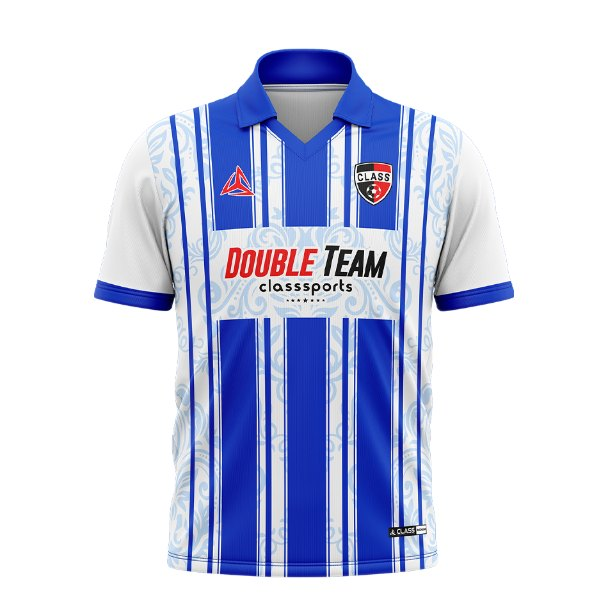
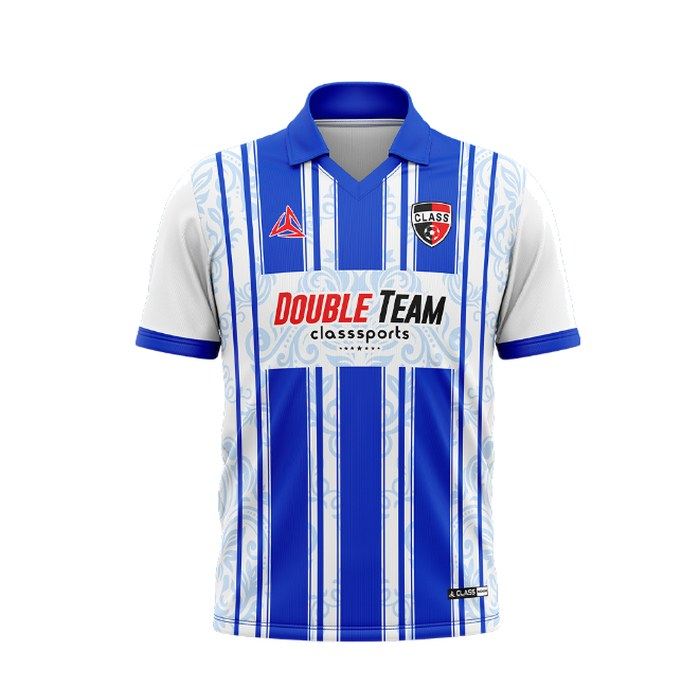
후보 사진 틀을 통일하고 이름 마킹을 넣는다
사진이 제각각이면 디자인이 아니라 '사진 잘 나온 것'을 고르게 된다.
앞면 상의만 잘라 같은 캔버스에 같은 크기로 앉혔다.
라푸리아 목업은 템플릿이 같아 그룹별 고정 좌표로 잘린다.

마킹은 투표자 이름을 유니폼 아래 네임플레이트로 붙인다. 앞면 사진이라
가슴에는 팀명이 이미 박혀 있고, 등판 사진이 없는 후보가 있어 띠로 붙였다.

Changed region(s): [[0.1515, 0.0595, 0.8788, 0.9818]]

diff --git a/public/index.html b/public/index.html
@@ -8,7 +8,7 @@
 <link rel="preconnect" href="https://fonts.googleapis.com">
 <link rel="preconnect" href="https://fonts.gstatic.com" crossorigin>
 <link href="https://fonts.googleapis.com/css2?family=Noto+Sans+KR:wght@400;500;700;900&display=swap" rel="stylesheet">
-<link rel="stylesheet" href="/style.css?v=4">
+<link rel="stylesheet" href="/style.css?v=5">
 </head>
 <body>
 
@@ -43,11 +43,13 @@
   <div class="arena">
     <button class="kit" id="kitA" type="button">
       <div class="shot"><img id="imgA" alt=""></div>
+      <div class="plate" id="plateA"></div>
       <div class="meta"><strong id="nameA"></strong><span id="subA"></span></div>
     </button>
     <div class="vs" aria-hidden="true">VS</div>
     <button class="kit" id="kitB" type="button">
       <div class="shot"><img id="imgB" alt=""></div>
+      <div class="plate" id="plateB"></div>
       <div class="meta"><strong id="nameB"></strong><span id="subB"></span></div>
     </button>
   </div>
@@ -61,6 +63,7 @@
     <p class="eyebrow">내가 뽑은 우승</p>
     <div class="champ">
       <div class="shot big"><img id="champImg" alt=""></div>
+      <div class="plate" id="plateC"></div>
       <h2 id="champName"></h2>
       <p id="champSub" class="lead"></p>
     </div>
@@ -73,6 +76,6 @@
   </div>
 </section>
 
-<script src="/app.js?v=4"></script>
+<script src="/app.js?v=5"></script>
 </body>
 </html>

diff --git a/public/app.js b/public/app.js
@@ -1,6 +1,6 @@
 // 이상형 월드컵 진행. 대진은 서버(kits.js)가 내려준다.
 (() => {
-  const V = '4';   // 이미지를 교체하면 올린다 — 안 올리면 브라우저가 옛 그림을 계속 쓴다
+  const V = '5';   // 이미지를 교체하면 올린다 — 안 올리면 브라우저가 옛 그림을 계속 쓴다
   const $ = id => document.getElementById(id);
   const show = id => document.querySelectorAll('.screen')
     .forEach(s => s.classList.toggle('on', s.id === id));
@@ -76,11 +76,16 @@
     }
   }
 
+  // 유니폼 마킹 — 입력한 이름을 등판 네임플레이트처럼 보여준다.
+  // 앞면 사진이라 가슴에는 이미 팀명이 박혀 있어 겹친다. 그래서 아래에 붙인다.
+  function mark(el) { el.textContent = voter; }
+
   function fill(side, k) {
     $('img' + side).src = `/kits/${k.id}.jpg?v=${V}`;
     $('img' + side).alt = k.name;
     $('name' + side).textContent = k.name;
     $('sub' + side).textContent = `${k.vendor} · ${k.price.toLocaleString()}원`;
+    mark($('plate' + side));
   }
 
   function choose(side) {
@@ -120,6 +125,7 @@
     $('champImg').alt = k.name;
     $('champName').textContent = k.name;
     $('champSub').textContent = `${k.vendor} · ${k.price.toLocaleString()}원`;
+    mark($('plateC'));
 
     const rows = picks
       .filter(p => p.round !== 'playin')

diff --git a/public/style.css b/public/style.css
@@ -106,6 +106,17 @@ button { font: inherit; cursor: pointer; border: none; background: none; color: 
 .shot img { max-width: 100%; max-height: 100%; width: auto; height: auto; object-fit: contain; display: block; }
 .shot.big { height: 300px; }
 
+/* 마킹 — 등판 네임플레이트처럼. 글자 사이를 벌려야 유니폼 마킹처럼 보인다. */
+.plate {
+  flex: none; align-self: center;
+  max-width: 92%; padding: 5px 16px;
+  background: #15181d; color: #fff; border-radius: 6px;
+  font-size: 15px; font-weight: 900; letter-spacing: .22em; text-indent: .22em;
+  line-height: 1.5; white-space: nowrap; overflow: hidden; text-overflow: ellipsis;
+}
+.plate:empty { display: none; }
+.shot.big + .plate { margin: 14px auto 0; font-size: 17px; padding: 7px 20px; }
+
 .meta { display: flex; flex-direction: column; gap: 2px; padding-bottom: 2px; }
 .meta strong { font-size: 18px; font-weight: 900; letter-spacing: -.01em; }
 .meta span { font-size: 14px; color: var(--mute); }

diff --git a/README.md b/README.md
@@ -92,6 +92,12 @@ ADMIN_KEY=test node server.js     # http://localhost:3000
 
 `DATABASE_URL` 없이 띄우면 메모리에 저장되고 경고가 뜬다. 확인용으로는 충분하다.
 
+## 마킹
+
+투표자가 적은 이름이 유니폼 아래 **네임플레이트**로 붙는다.
+앞면 사진이라 가슴에는 이미 팀명이 박혀 있어 겹치고, 실제 마킹 자리인 등판은
+후보 17종 중 일부만 뒷면 사진이 있다. 그래서 아래에 띠로 붙였다.
+
 ## 이미지를 바꾸면
 
 `public/kits/*.jpg`를 교체한 뒤 **`public/app.js`의 `V` 값을 올린다.**
@@ -99,7 +105,13 @@ ADMIN_KEY=test node server.js     # http://localhost:3000
 
 ## 남은 일
 
-- `kirinco-teal`, `kirinco-mint`은 원본이 작다(254×314, 275×337). 다른 후보보다
-  흐리게 보여 불리하다. KIRINCO에서 큰 이미지를 받으면 교체한다.
+- 후보 사진은 앞면 상의만 잘라 **같은 캔버스(700×700)에 같은 크기**로 앉혔다
+  (`scripts/unify` 참고 — 라푸리아 목업은 템플릿이 같아 그룹별 고정 좌표로 잘린다).
+  틀을 맞추지 않으면 디자인이 아니라 '사진 잘 나온 것'을 고르게 된다.
+- **배경은 업체가 찍은 그대로다.** 라푸리아는 회색 스튜디오 배경, KIRINCO는 흰 배경이다.
+  회색 배경이 명암 135~201로 흘러서 흰 유니폼과 구분이 안 돼 자동 제거가 안 된다.
+  완전히 맞추려면 업체 원본 파일을 받거나 배경 제거 도구(유료)가 필요하다.
+- `kirinco-teal`, `kirinco-mint`은 원본이 작아(254×314, 275×337) 키우면 흐리다.
+  KIRINCO에서 큰 이미지를 받으면 교체한다.
 - 추천인은 이 저장소에 넣지 않았다. 공개 저장소라 회원 이름이 나가면 안 되고,
   투표 화면에 띄우면 디자인이 아니라 사람을 보고 고르게 된다. 원본 pptx에 남아 있다.
